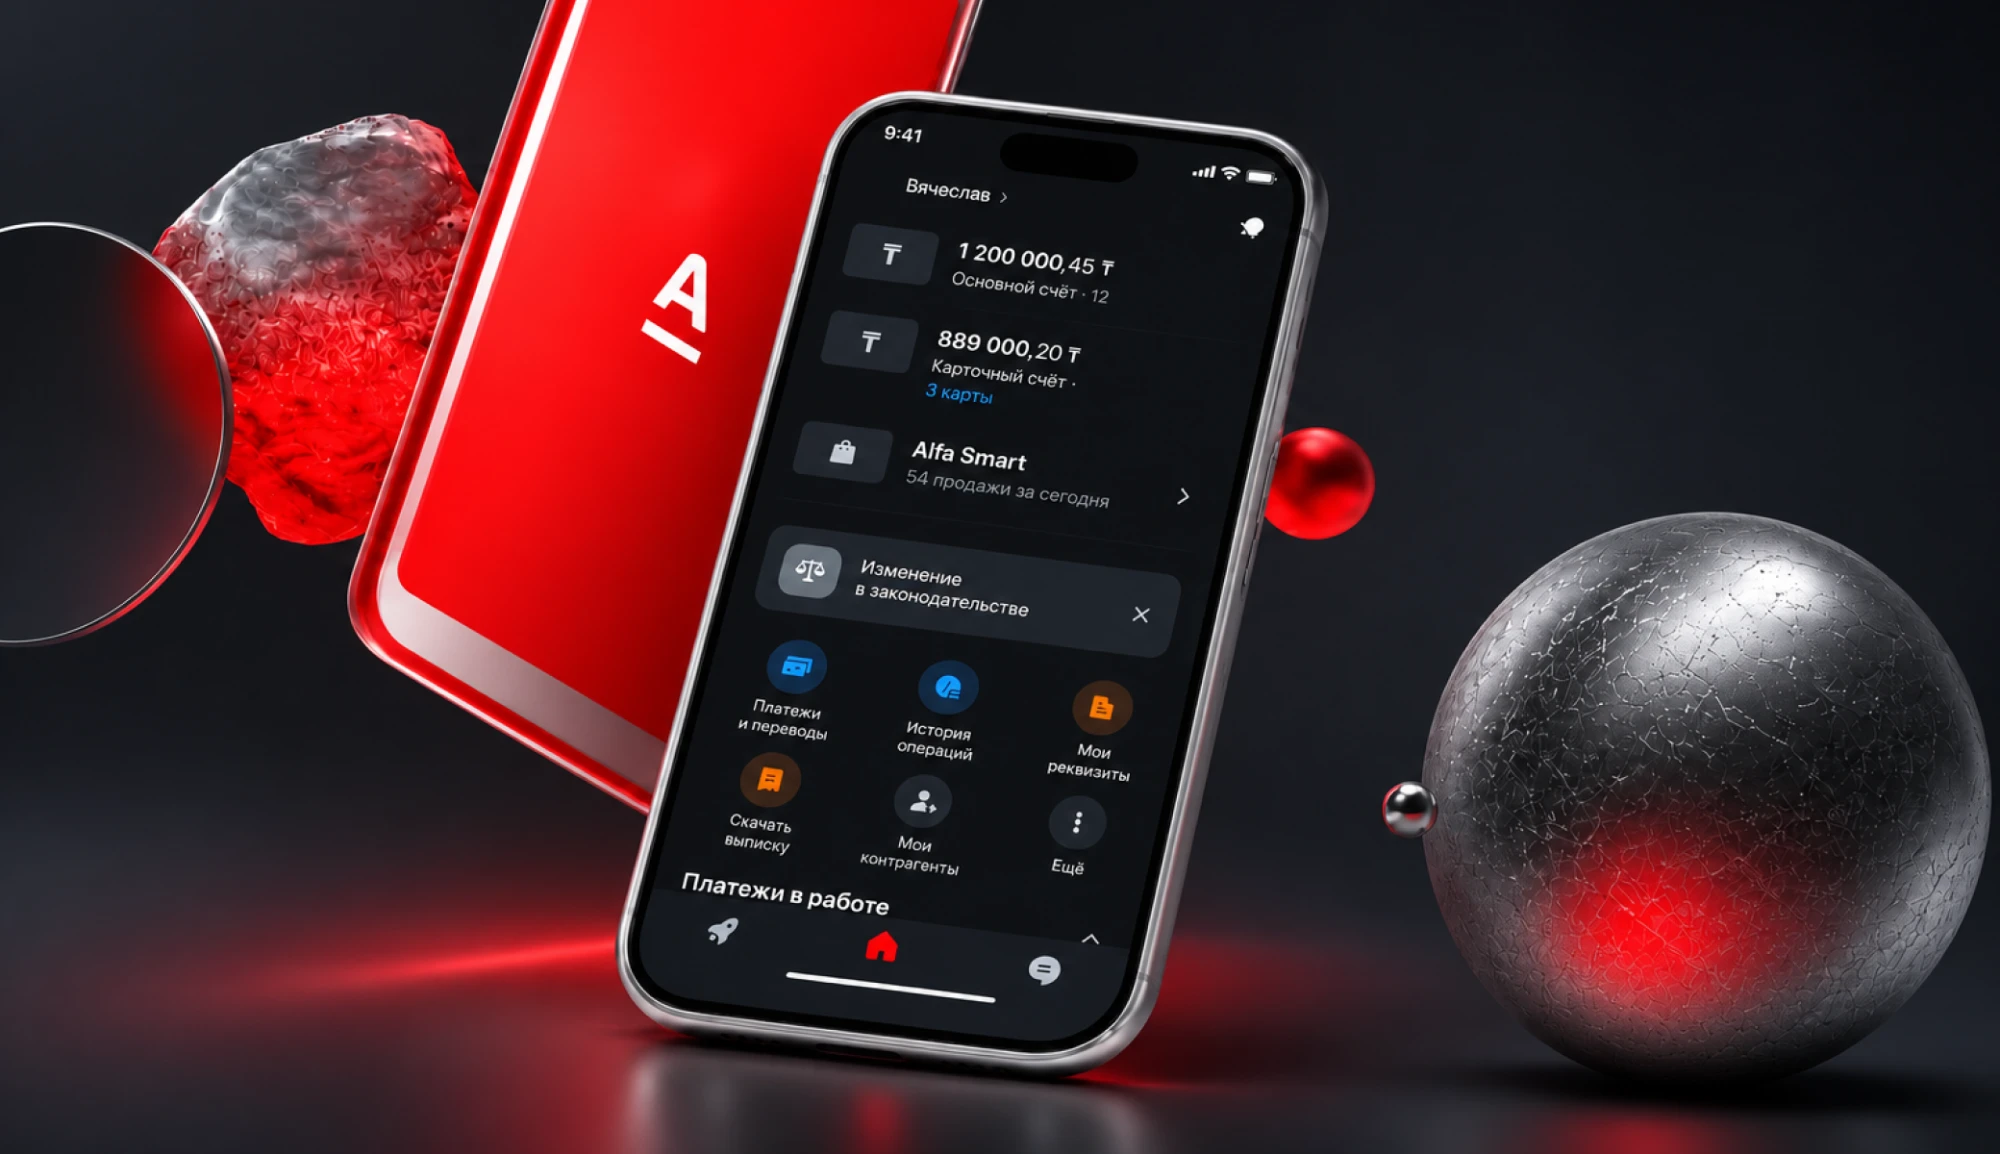
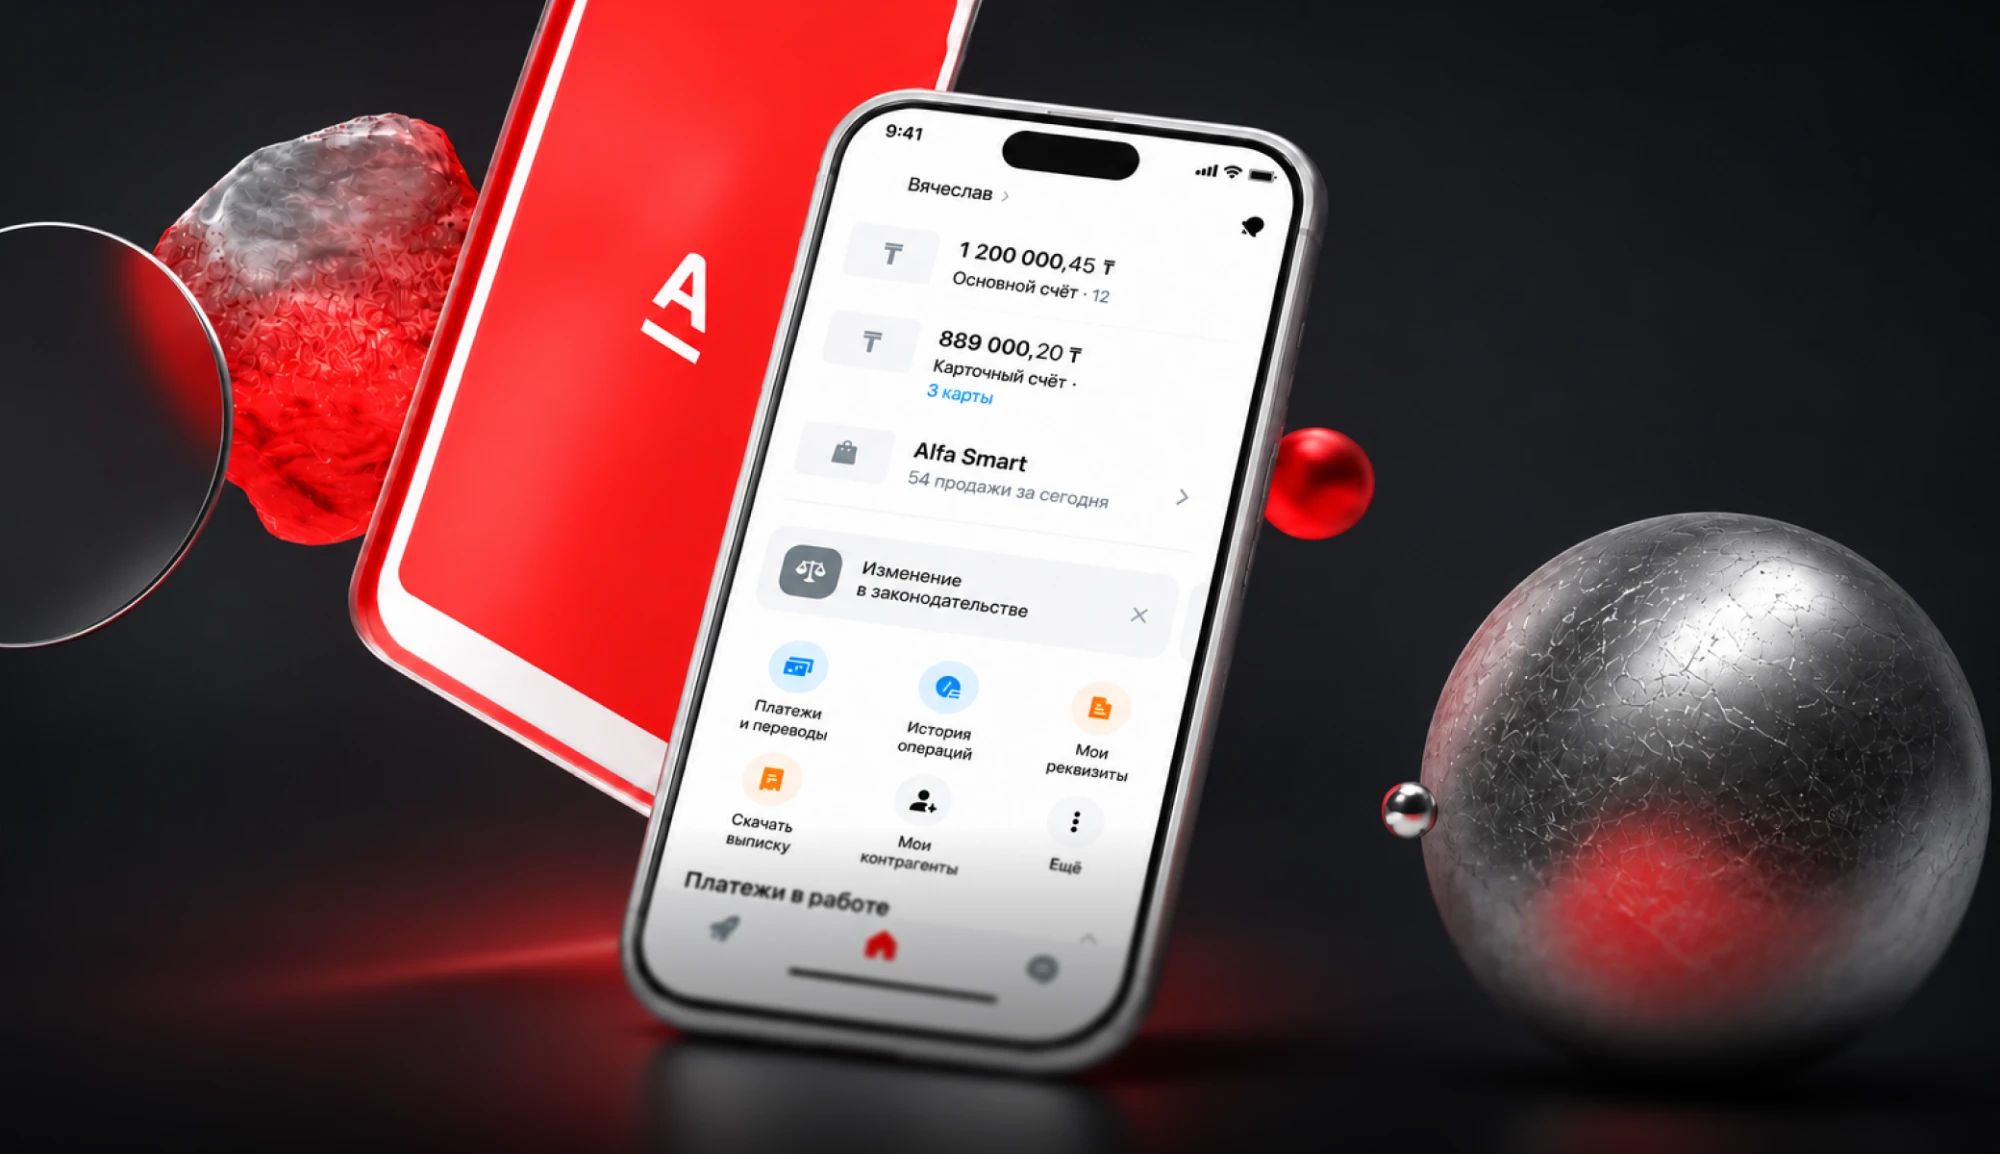
Тёмная обложка кейса Альфа-Банка: светлый экран на тёмном фоне

diff --git a/index.html b/index.html
@@ -145,7 +145,7 @@
       <article class="case" data-reveal>
         <a draggable="false" class="case__cover" href="/abusiness" aria-label="Редизайн мобильного банка для бизнеса">
           <img draggable="false" class="cover-light" src="images/case-alfa-light.webp?v=1" alt="iPhone с главным экраном приложения Альфа-Банка для бизнеса" loading="lazy">
-          <img draggable="false" class="cover-dark" src="images/case-alfa-dark.webp?v=1" alt="iPhone с главным экраном приложения Альфа-Банка для бизнеса" loading="lazy">
+          <img draggable="false" class="cover-dark" src="images/case-alfa-dark.webp?v=2" alt="iPhone с главным экраном приложения Альфа-Банка для бизнеса" loading="lazy">
         </a>
         <h3 class="case__title">Редизайн мобильного банка для&nbsp;бизнеса</h3>
         <p class="case__text">Вместе с&nbsp;командой выяснил, почему предприниматели не&nbsp;справляются с&nbsp;базовыми задачами в&nbsp;приложении, и&nbsp;переделал ключевые сценарии и&nbsp;навигацию под их&nbsp;реальное поведение.</p>

diff --git a/abusiness.html b/abusiness.html
@@ -92,7 +92,7 @@
 
       <figure class="case-page__cover" data-reveal>
         <img class="cover-light" src="images/case-alfa-light.webp?v=1" alt="iPhone с главным экраном приложения Альфа-Банка для бизнеса">
-        <img class="cover-dark" src="images/case-alfa-dark.webp?v=1" alt="iPhone с главным экраном приложения Альфа-Банка для бизнеса">
+        <img class="cover-dark" src="images/case-alfa-dark.webp?v=2" alt="iPhone с главным экраном приложения Альфа-Банка для бизнеса">
       </figure>
 
       <section class="case-page__section" data-reveal>
